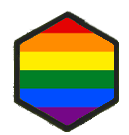
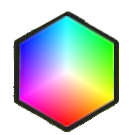
Add some notifications to unit actions and edited the color resource

diff --git a/src/main/java/com/example/demo/view/model/GraphicTile.java b/src/main/java/com/example/demo/view/model/GraphicTile.java
@@ -140,15 +140,28 @@ public class GraphicTile implements Serializable {
             case WORKER -> {
                 Civilization civilization = GameController.getCivilizations().get(GameController.getPlayerTurn());
                 if (tile.getRoad() == null)
-                    addButton("Build Road", true, event -> UnitStateController.unitBuildRoad());
+                    addButton("Build Road", true, event -> {
+                        UnitStateController.unitBuildRoad();
+                        gameControllerFX.renderMap();
+                    });
                 if (tile.getRoad() == null && civilization.doesContainTechnology(TechnologyType.RAILROAD) == 1)
-                    addButton("Build Rail Road", true, event -> UnitStateController.unitBuildRailRoad());
+                    addButton("Build Rail Road", true, event -> {
+                        UnitStateController.unitBuildRailRoad();
+                        gameControllerFX.renderMap();
+                    });
                 if (tile.getRoad() != null)
-                    addButton("Remove Road", true, event -> UnitStateController.unitRemoveFromTile(false));
+                    addButton("Remove Road", true, event -> {
+                        UnitStateController.unitRemoveFromTile(false);
+                        gameControllerFX.renderMap();
+                    });
                 if (tile.getContainedFeature() != null) {
                     FeatureType featureType = tile.getContainedFeature().getFeatureType();
                     if (featureType.equals(FeatureType.JUNGLE) || featureType.equals(FeatureType.FOREST) || featureType.equals(FeatureType.SWAMP))
-                        addButton("Remove Feature", true, event -> UnitStateController.unitRemoveFromTile(true));
+                        addButton("Remove Feature", true, event -> {
+                            UnitStateController.unitRemoveFromTile(true);
+                            notif("Removing Feature","Started removing feature in this tile.");
+                            gameControllerFX.renderMap();
+                        });
                 }
                 //improvement building:
                 for (ImprovementType improvementType : ImprovementType.values())
@@ -156,9 +169,16 @@ public class GraphicTile implements Serializable {
                         && GameController.canHaveTheImprovement(tile, improvementType))
                         if (tile.getImprovement() != null && tile.getImprovement().getImprovementType().equals(improvementType)) {
                             if (improvementImage != null)
-                                addButton("Remove " + improvementType, true, event -> tile.setImprovement(null));
+                                addButton("Remove " + improvementType, true, event -> {
+                                    tile.setImprovement(null);
+                                    gameControllerFX.renderMap();
+                                    notif("Success", "Improvement removed successfully.");
+                                });
                         } else
-                            addButton("Build " + improvementType, true, event -> UnitStateController.unitBuild(improvementType));
+                            addButton("Build " + improvementType, true, event -> {
+                                UnitStateController.unitBuild(improvementType);
+                                gameControllerFX.renderMap();
+                            });
             }
         }
     }
